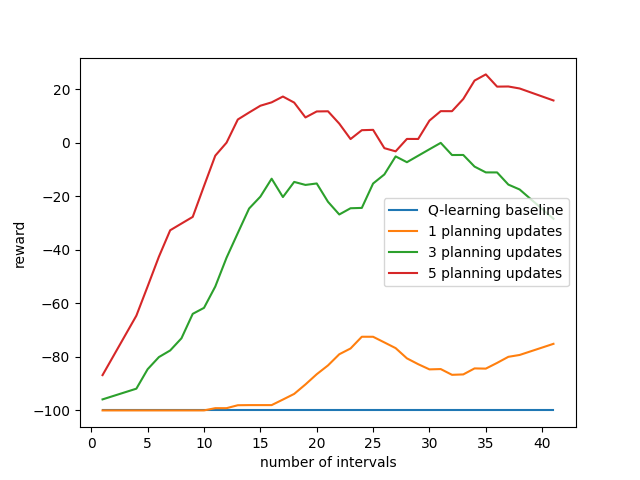
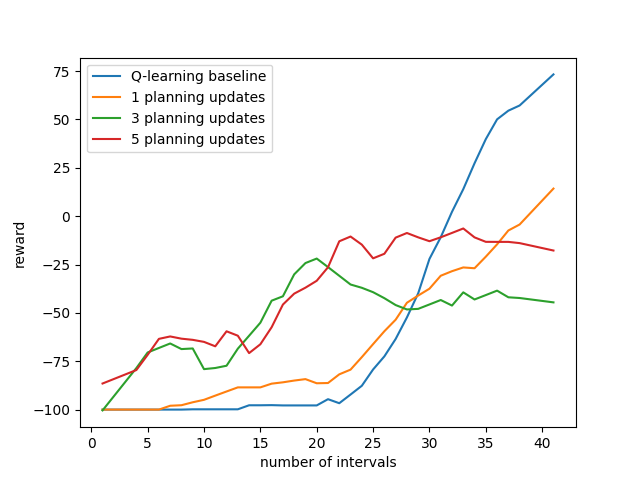
comparison plots

diff --git a/MBRLExperiment.py b/MBRLExperiment.py
@@ -29,10 +29,13 @@ def experiment():
     for planning_update in n_planning_updates:
         rep_evals = []
         for n in range(n_repetitions):
-            WG_env = WindyGridworld(wind_proportion=wind_proportions[1])
-            #Dyna_agent = DynaAgent(WG_env.n_states, WG_env.n_actions, learning_rate, gamma)
-            PS_agent = PrioritizedSweepingAgent(WG_env.n_states, WG_env.n_actions, learning_rate, gamma)
-            eval = run_repetitions(PS_agent, WG_env, WG_env, n_timesteps, eval_interval, epsilon, planning_update)
+            WG_env = WindyGridworld(wind_proportion=wind_proportions[0])
+            if planning_update == 0:
+                Dyna_agent = DynaAgent(WG_env.n_states, WG_env.n_actions, learning_rate, gamma)
+                eval = run_repetitions(Dyna_agent, WG_env, WG_env, n_timesteps, eval_interval, epsilon, planning_update)
+            else:
+                PS_agent = PrioritizedSweepingAgent(WG_env.n_states, WG_env.n_actions, learning_rate, gamma)
+                eval = run_repetitions(PS_agent, WG_env, WG_env, n_timesteps, eval_interval, epsilon, planning_update)
             rep_evals.append(eval)
         all_evals.append(rep_evals)
     all_avg_evals = []
@@ -49,7 +52,7 @@ def experiment():
     plt.legend()
     plt.xlabel("number of intervals")
     plt.ylabel("reward")
-    plt.savefig(f"PS_wind_proportion_{wind_proportions[1]}.png")
+    plt.savefig(f"PS_wind_proportion_{wind_proportions[0]}.png")
     plt.show()
 
 
